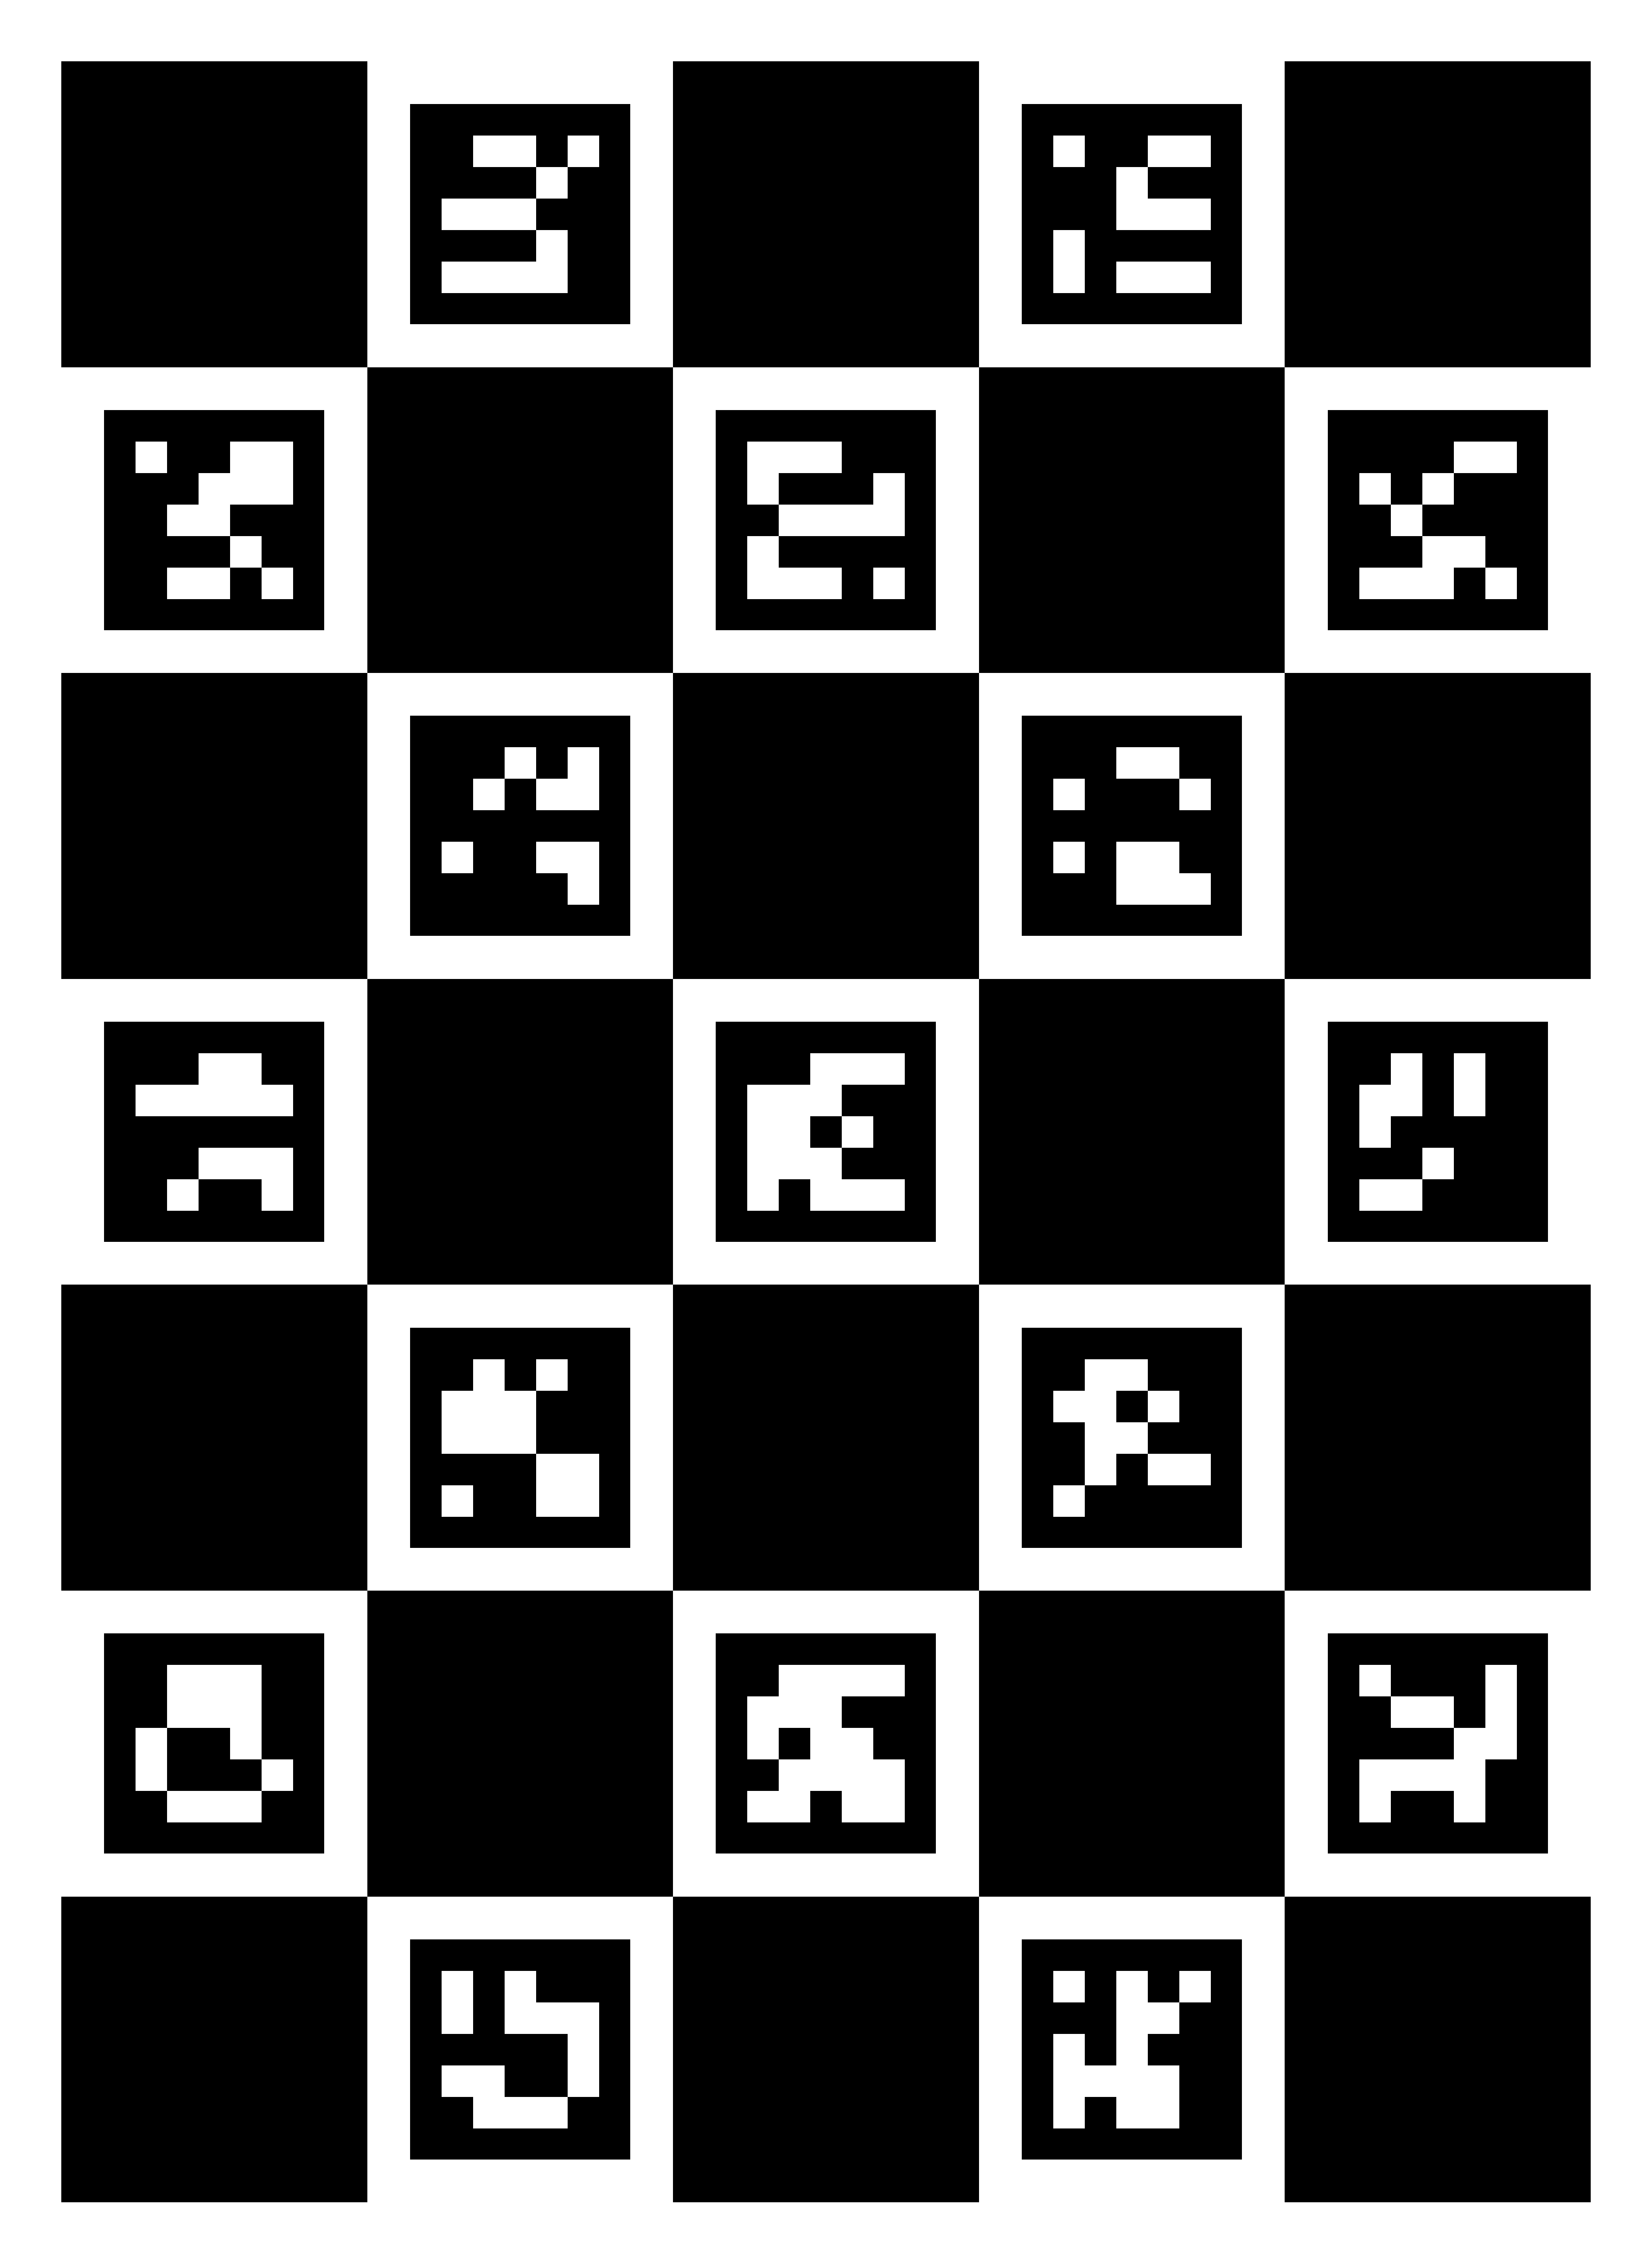
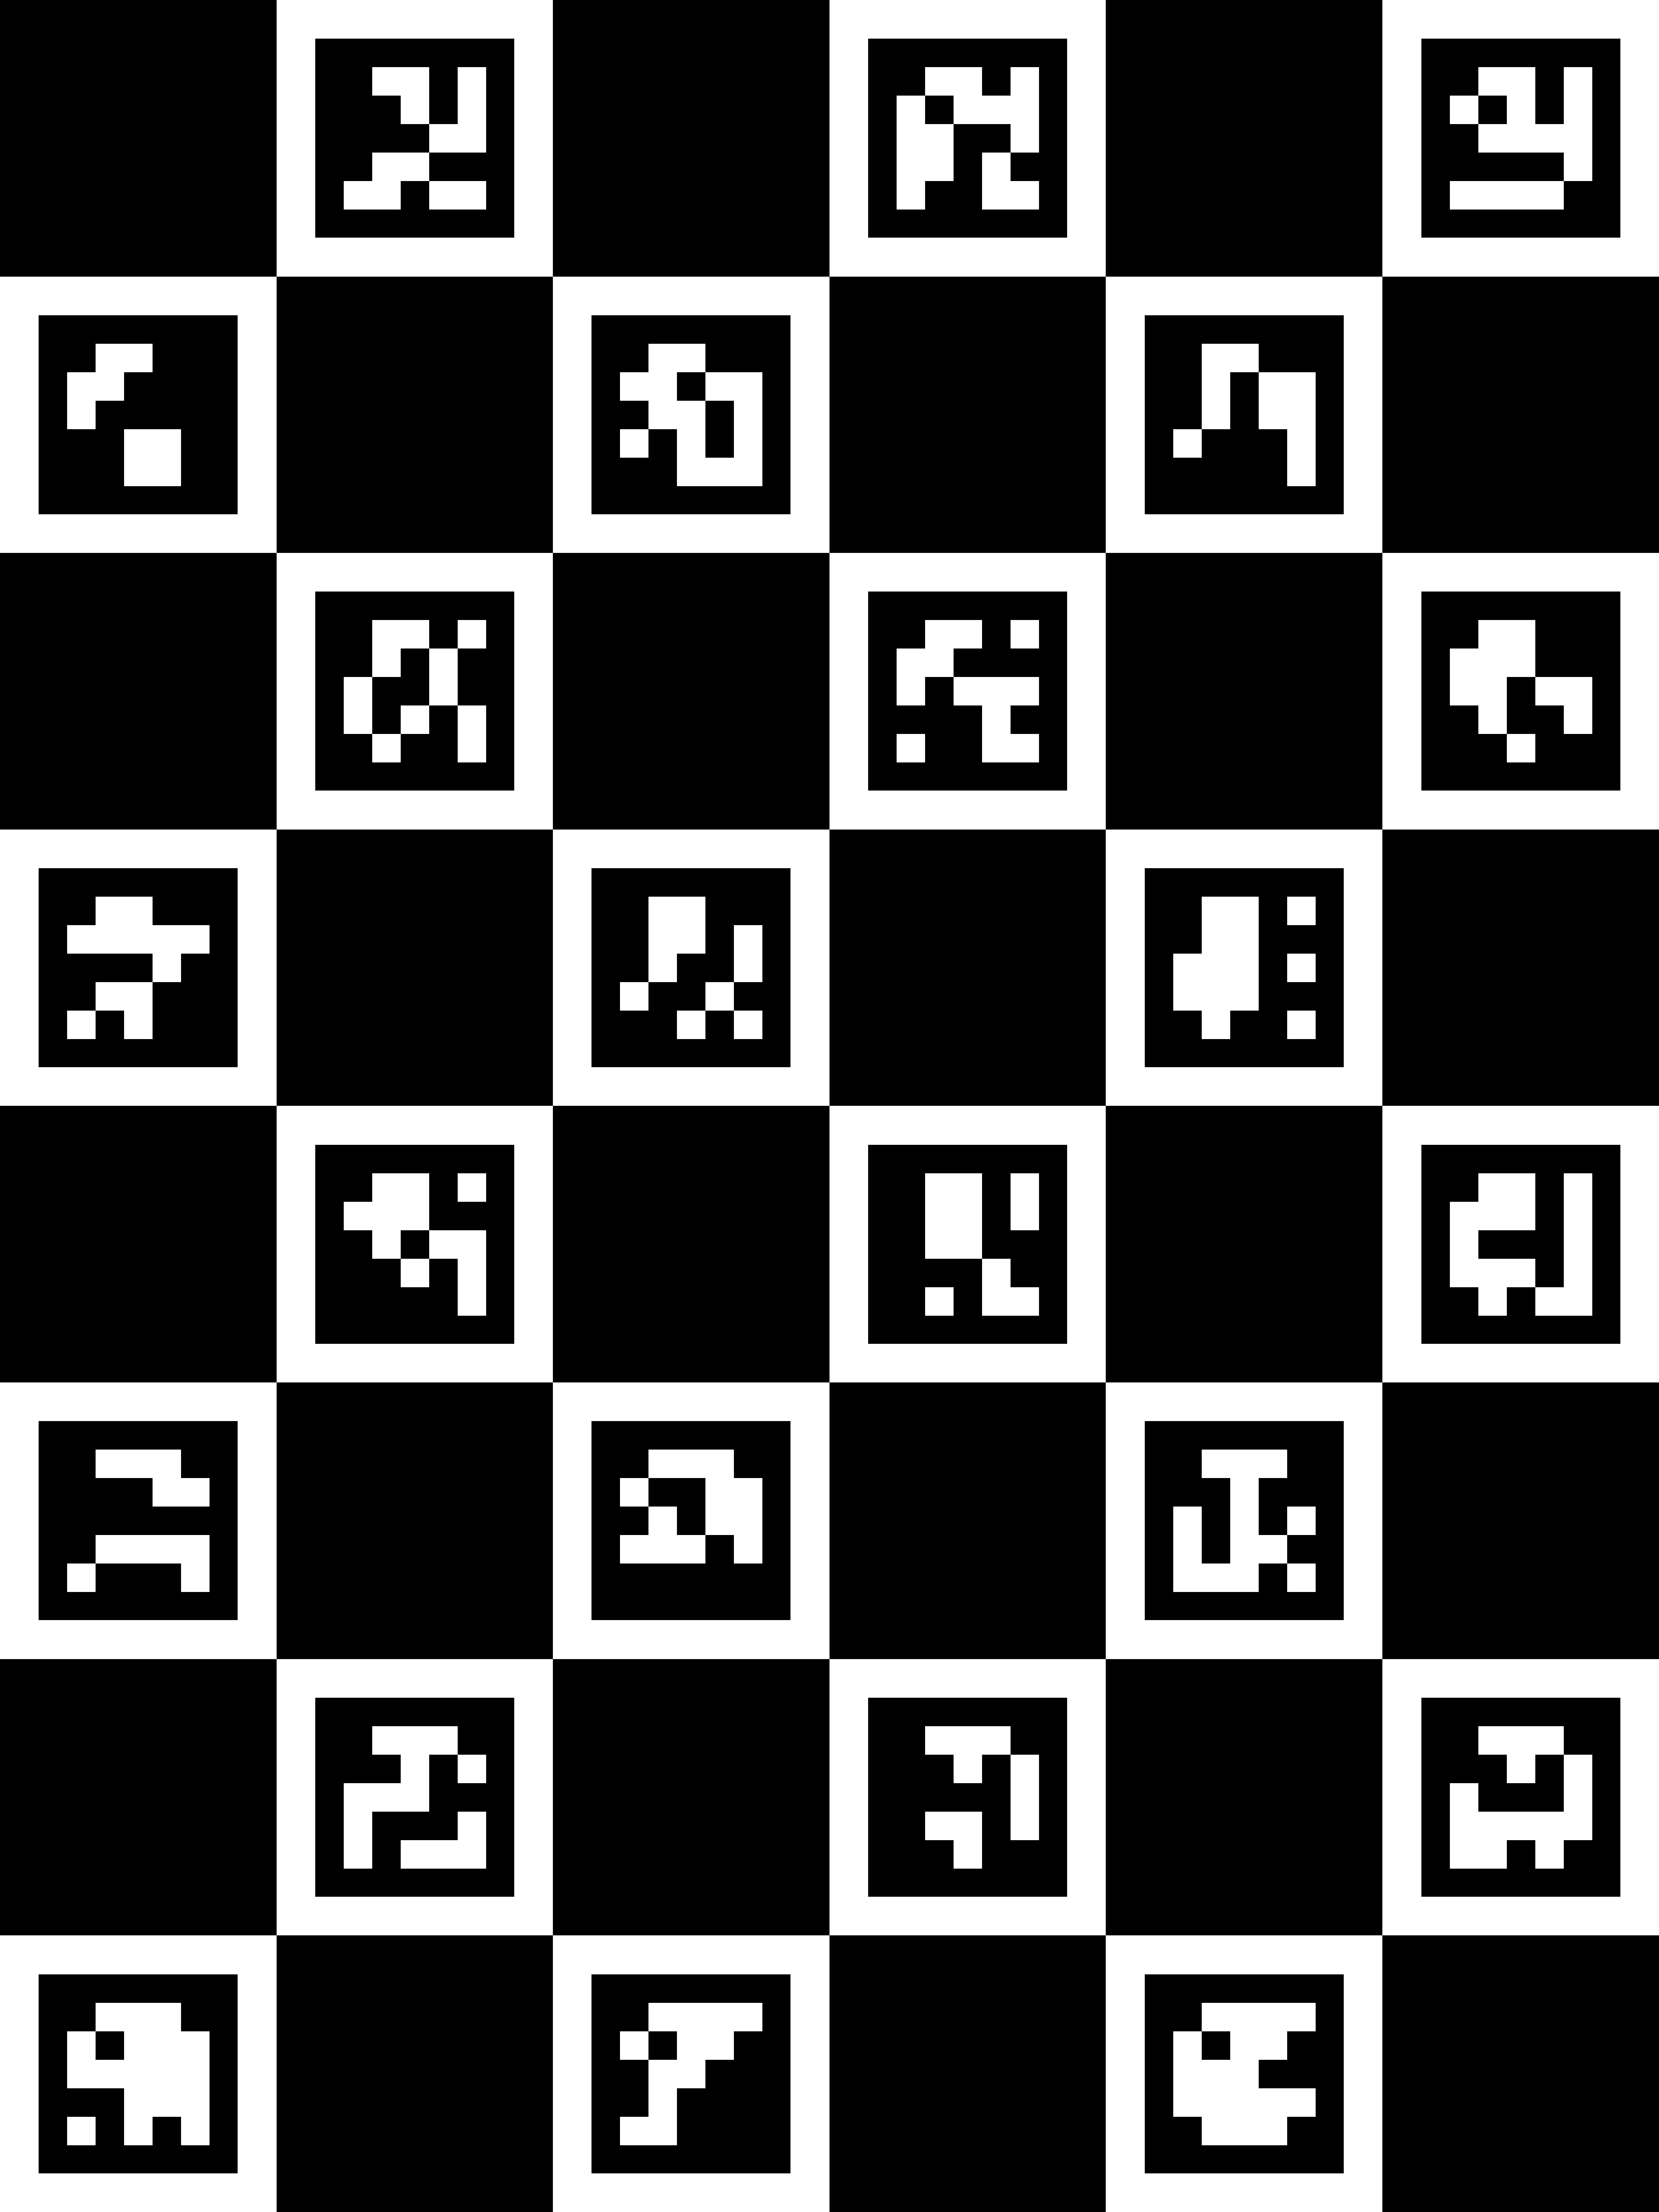
Regenerate ChArUco boards to fill page (was undersized)
Each board now tiles as many squares as fit on US-Letter so the pattern
covers the whole sheet. Camera sees more calibration points in every
partial view. Grids are now 13x17 / 9x11 / 6x8 vs the previous 5x7.

https://claude.ai/code/session_01LwRnc5nA2QKS7GYMUA8aHr

diff --git a/3d-files/calibration-jig/charuco/generate_charuco_boards.py b/3d-files/calibration-jig/charuco/generate_charuco_boards.py
@@ -1,34 +1,25 @@
-"""Generate printable ChArUco boards at several physical sizes for the
+"""Generate printable ChArUco boards at several square sizes for the
 dual-camera calibration jig.
 
-WHY THIS EXISTS
-  We don't yet know the smallest ChArUco square the headset cameras can
-  resolve at the jig's ~150 mm working distance (panels sit ~305 mm apart,
-  glasses in the middle). Rather than guess, print these size variants, tape
-  one to a panel, and check which detects reliably before committing to a
-  laminated final board.
+Each board tiles as many squares as fit on a US-Letter page so the
+pattern fills the sheet. Since only a portion of the board needs to be
+visible to the camera at any time, filling the page maximises the
+calibration points in every partial view.
 
-OUTPUT (per size, in this directory)
-  charuco_<label>.pdf  — US-Letter page, board drawn at EXACT physical size,
-                         with a printed 50 mm reference ruler for scale check.
-  charuco_<label>.png  — raw board image (for on-screen reference only).
+Print all three sizes, tape them up, and check which square size each
+camera detects reliably at the real working distance before laminating.
 
-PRINTING (at the library)
-  Print the PDFs at 100% / "Actual size". Do NOT use "Fit to page" / "Shrink
-  to fit" — that rescales the board and silently breaks the geometry. After
-  printing, measure the 50 mm reference line with a ruler; if it isn't 50 mm,
-  the print was scaled and the board is unusable for metric calibration.
+PRINTING
+  Print the PDFs at 100% / "Actual size". Do NOT use "Fit to page" or
+  "Shrink to fit" — that rescales the geometry silently. After printing,
+  measure the 50 mm reference line in the bottom margin with a ruler to
+  confirm the scale is correct.
 
-IDS
-  Every board uses DICT_5X5_1000 but a distinct ID range (id_offset) so no two
-  boards share marker IDs. That means you can test them without collisions, and
-  later the two jig panels can carry boards with different ID ranges so the
-  solver can tell Panel A from Panel B.
-
-Re-run after editing BOARDS below:
+Re-run after editing BOARDS or page geometry:
     python3 generate_charuco_boards.py
 """
 
+import math
 import cv2
 import numpy as np
 from pathlib import Path
@@ -39,99 +30,83 @@ from reportlab.lib.utils import ImageReader
 
 HERE = Path(__file__).parent
 
-# Shared layout. 5x7 squares keeps even the largest board on a Letter page and
-# guarantees several markers fall inside any partial camera view.
-SQUARES_X = 5
-SQUARES_Y = 7
-DICT = cv2.aruco.DICT_5X5_1000
-MARKER_RATIO = 0.72          # marker edge as fraction of square edge
-DPI = 600                    # render resolution for the embedded image
-QUIET_MM = 6.0               # white border baked into the image (detection)
+DICT         = cv2.aruco.DICT_5X5_1000
+MARKER_RATIO = 0.72   # marker edge as fraction of square edge
+DPI          = 600
 
-# Size variants to print and test (square edge in mm). Brackets the plausible
-# range for a ~150 mm working distance with an unknown low-res eye camera.
+# Page margins (mm). Bottom margin is taller to fit the reference ruler.
+MARGIN_TOP    = 8.0
+MARGIN_SIDE   = 8.0
+MARGIN_BOTTOM = 14.0  # ruler lives here
+
 BOARDS = [
     {"label": "small",  "square_mm": 15.0, "id_offset": 0},
-    {"label": "medium", "square_mm": 22.0, "id_offset": 100},
-    {"label": "large",  "square_mm": 30.0, "id_offset": 200},
+    {"label": "medium", "square_mm": 22.0, "id_offset": 200},
+    {"label": "large",  "square_mm": 30.0, "id_offset": 400},
 ]
 
+PAGE_W_MM = 215.9  # US Letter
+PAGE_H_MM = 279.4
 
-def make_board(square_mm: float, id_offset: int):
+
+def tile_counts(square_mm: float) -> tuple[int, int]:
+    usable_w = PAGE_W_MM - 2 * MARGIN_SIDE
+    usable_h = PAGE_H_MM - MARGIN_TOP - MARGIN_BOTTOM
+    return math.floor(usable_w / square_mm), math.floor(usable_h / square_mm)
+
+
+def make_board(cols: int, rows: int, square_mm: float, id_offset: int):
     dictionary = cv2.aruco.getPredefinedDictionary(DICT)
-    marker_mm = square_mm * MARKER_RATIO
-    n_markers = (SQUARES_X * SQUARES_Y) // 2
-    ids = np.arange(id_offset, id_offset + n_markers, dtype=np.int32)
-    board = cv2.aruco.CharucoBoard(
-        (SQUARES_X, SQUARES_Y), square_mm, marker_mm, dictionary, ids
+    marker_mm  = square_mm * MARKER_RATIO
+    n_markers  = (cols * rows) // 2
+    ids        = np.arange(id_offset, id_offset + n_markers, dtype=np.int32)
+    board      = cv2.aruco.CharucoBoard(
+        (cols, rows), square_mm, marker_mm, dictionary, ids
     )
     return board, marker_mm, ids
 
 
-def render_png(board, square_mm: float, path: Path) -> tuple[float, float]:
-    """Render board to PNG with a baked-in white quiet zone. Returns the
-    image's full physical (width_mm, height_mm) including the quiet zone."""
-    board_w_mm = SQUARES_X * square_mm
-    board_h_mm = SQUARES_Y * square_mm
+def render_png(board, cols: int, rows: int, square_mm: float,
+               path: Path) -> tuple[float, float]:
+    """Render board at exact size, no margins. Returns (width_mm, height_mm)."""
     px_per_mm = DPI / 25.4
-    margin_px = int(round(QUIET_MM * px_per_mm))
-    w_px = int(round(board_w_mm * px_per_mm)) + 2 * margin_px
-    h_px = int(round(board_h_mm * px_per_mm)) + 2 * margin_px
-    img = board.generateImage((w_px, h_px), marginSize=margin_px, borderBits=1)
+    w_px = int(round(cols * square_mm * px_per_mm))
+    h_px = int(round(rows * square_mm * px_per_mm))
+    img  = board.generateImage((w_px, h_px), marginSize=0, borderBits=1)
     cv2.imwrite(str(path), img)
-    full_w_mm = board_w_mm + 2 * QUIET_MM
-    full_h_mm = board_h_mm + 2 * QUIET_MM
-    return full_w_mm, full_h_mm
+    return cols * square_mm, rows * square_mm
 
 
-def write_pdf(png_path: Path, pdf_path: Path, full_w_mm: float,
-              full_h_mm: float, spec: dict, marker_mm: float, ids) -> None:
+def write_pdf(png_path: Path, pdf_path: Path, board_w_mm: float,
+              board_h_mm: float, spec: dict, cols: int, rows: int,
+              marker_mm: float, ids) -> None:
     page_w, page_h = letter
     c = canvas.Canvas(str(pdf_path), pagesize=letter)
 
-    # Anchor the board at the bottom margin so the label + reference ruler get
-    # the clear space at the top of the page (the largest board nearly fills
-    # the sheet, so there's no room below it).
-    bottom_margin = 12 * mm
-    draw_w = full_w_mm * mm
-    draw_h = full_h_mm * mm
+    # Board anchored at top margin, centred horizontally.
+    draw_w = board_w_mm * mm
+    draw_h = board_h_mm * mm
     x = (page_w - draw_w) / 2
-    y = bottom_margin
-    board_top = y + draw_h
+    y = page_h - MARGIN_TOP * mm - draw_h
     c.drawImage(ImageReader(str(png_path)), x, y, width=draw_w, height=draw_h)
 
-    # Label block, top-down from the page top.
-    c.setFont("Helvetica-Bold", 13)
-    c.drawString(18 * mm, page_h - 15 * mm,
-                 f"ChArUco test board — {spec['label'].upper()}")
-    c.setFont("Helvetica", 10)
-    lines = [
-        f"square = {spec['square_mm']:.1f} mm    marker = {marker_mm:.1f} mm"
-        f"    grid = {SQUARES_X} x {SQUARES_Y}",
-        f"dict = DICT_5X5_1000    marker IDs {int(ids[0])}-{int(ids[-1])}",
-        "Print at 100% / Actual size. Verify the 50 mm line below with a ruler.",
-    ]
-    ty = page_h - 22 * mm
-    for ln in lines:
-        c.drawString(18 * mm, ty, ln)
-        ty -= 5 * mm
-
-    # 50 mm reference ruler (scale sanity check after printing), placed just
-    # below the label text and above the board.
-    ruler_y = ty - 4 * mm
-    if ruler_y < board_top + 4 * mm:
-        raise ValueError(
-            f"{spec['label']}: board too tall for label+ruler on Letter "
-            f"(board_top={board_top/mm:.1f}mm, ruler_y={ruler_y/mm:.1f}mm). "
-            f"Reduce square size, grid, or QUIET_MM."
-        )
-    rx = 18 * mm
-    c.setLineWidth(1)
-    c.line(rx, ruler_y, rx + 50 * mm, ruler_y)
+    # 50 mm reference ruler in the bottom margin.
+    rx = MARGIN_SIDE * mm
+    ry = 6 * mm
+    c.setLineWidth(0.8)
+    c.line(rx, ry, rx + 50 * mm, ry)
     for tick in range(0, 51, 10):
-        c.line(rx + tick * mm, ruler_y, rx + tick * mm, ruler_y + 3 * mm)
-    c.setFont("Helvetica", 8)
-    c.drawString(rx + 52 * mm, ruler_y, "50 mm reference")
+        c.line(rx + tick * mm, ry, rx + tick * mm, ry + 2.5 * mm)
+    c.setFont("Helvetica", 7)
+    c.drawString(rx + 52 * mm, ry, "50 mm — verify with ruler before use")
+
+    # Tiny label at very bottom-left.
+    c.setFont("Helvetica", 7)
+    c.drawString(rx, 2 * mm,
+                 f"{spec['label'].upper()}  sq={spec['square_mm']:.0f}mm  "
+                 f"mk={marker_mm:.1f}mm  {cols}x{rows}  "
+                 f"IDs {int(ids[0])}-{int(ids[-1])}  DICT_5X5_1000  "
+                 f"100%/Actual size only")
 
     c.showPage()
     c.save()
@@ -139,15 +114,19 @@ def write_pdf(png_path: Path, pdf_path: Path, full_w_mm: float,
 
 def main() -> None:
     for spec in BOARDS:
-        board, marker_mm, ids = make_board(spec["square_mm"], spec["id_offset"])
+        cols, rows = tile_counts(spec["square_mm"])
+        board, marker_mm, ids = make_board(
+            cols, rows, spec["square_mm"], spec["id_offset"]
+        )
         png = HERE / f"charuco_{spec['label']}.png"
         pdf = HERE / f"charuco_{spec['label']}.pdf"
-        full_w, full_h = render_png(board, spec["square_mm"], png)
-        write_pdf(png, pdf, full_w, full_h, spec, marker_mm, ids)
-        print(f"{spec['label']:>6}: square {spec['square_mm']:.0f} mm, "
-              f"marker {marker_mm:.1f} mm, board "
-              f"{SQUARES_X*spec['square_mm']:.0f}x{SQUARES_Y*spec['square_mm']:.0f} mm "
-              f"-> {pdf.name}")
+        w_mm, h_mm = render_png(board, cols, rows, spec["square_mm"], png)
+        write_pdf(png, pdf, w_mm, h_mm, spec, cols, rows, marker_mm, ids)
+        print(f"{spec['label']:>6}: {cols}x{rows} grid, square {spec['square_mm']:.0f} mm, "
+              f"marker {marker_mm:.1f} mm, "
+              f"board {w_mm:.0f}x{h_mm:.0f} mm, "
+              f"{(cols*rows)//2} markers (IDs {int(ids[0])}-{int(ids[-1])})"
+              f" -> {pdf.name}")
 
 
 if __name__ == "__main__":